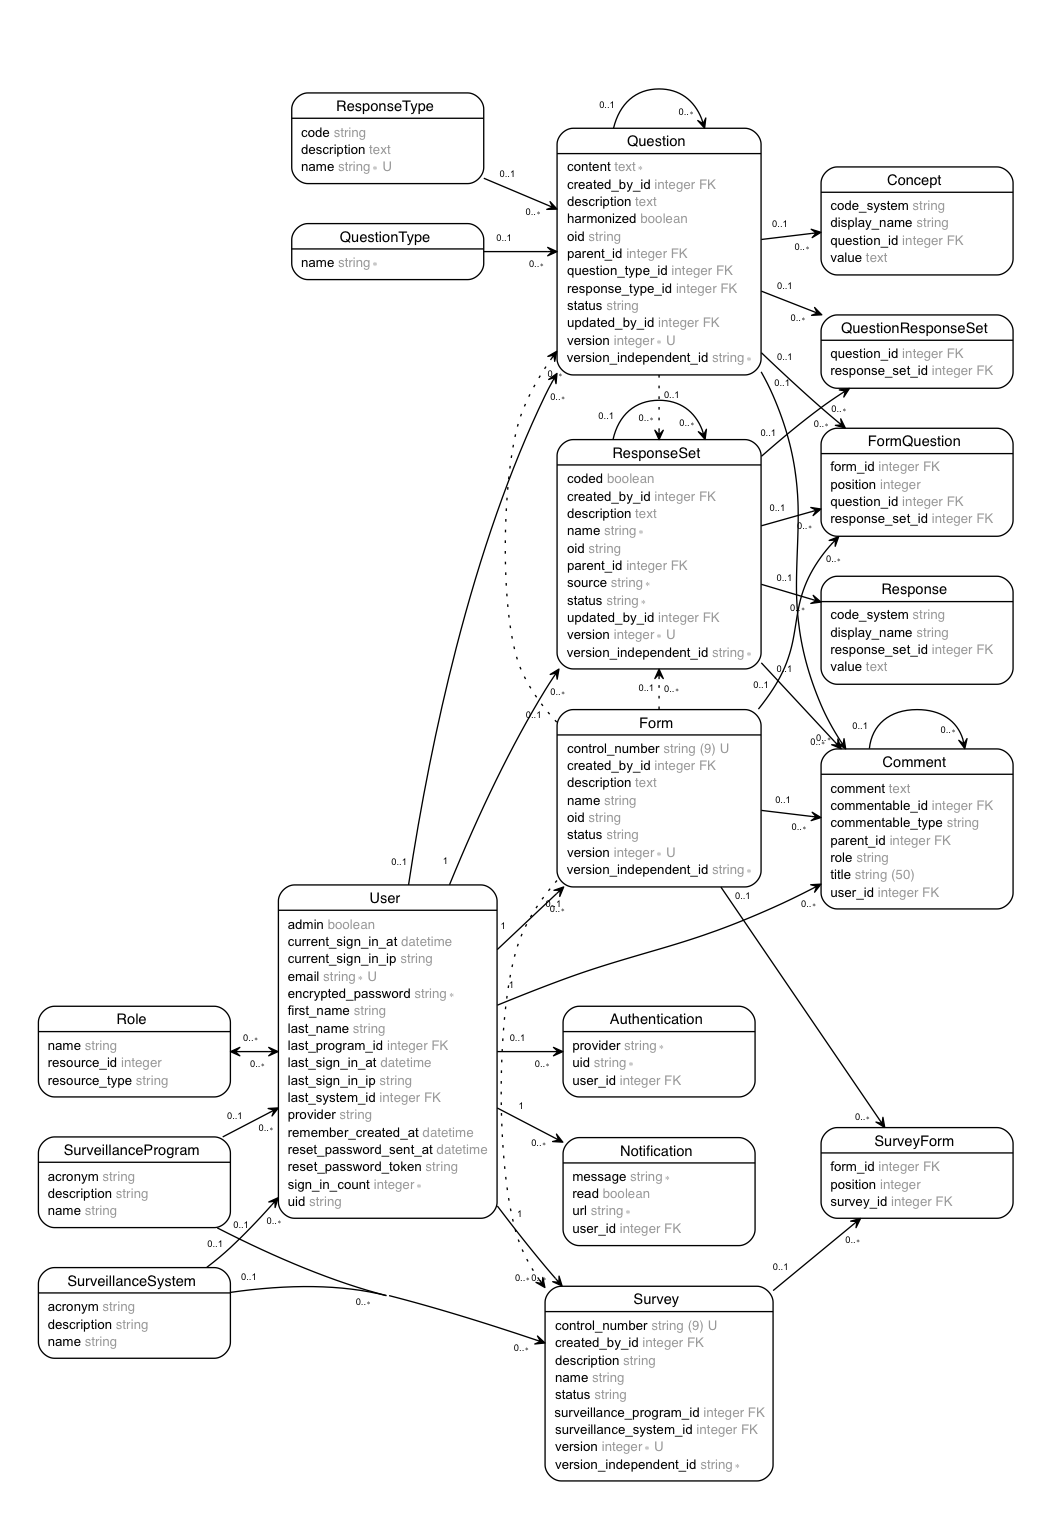
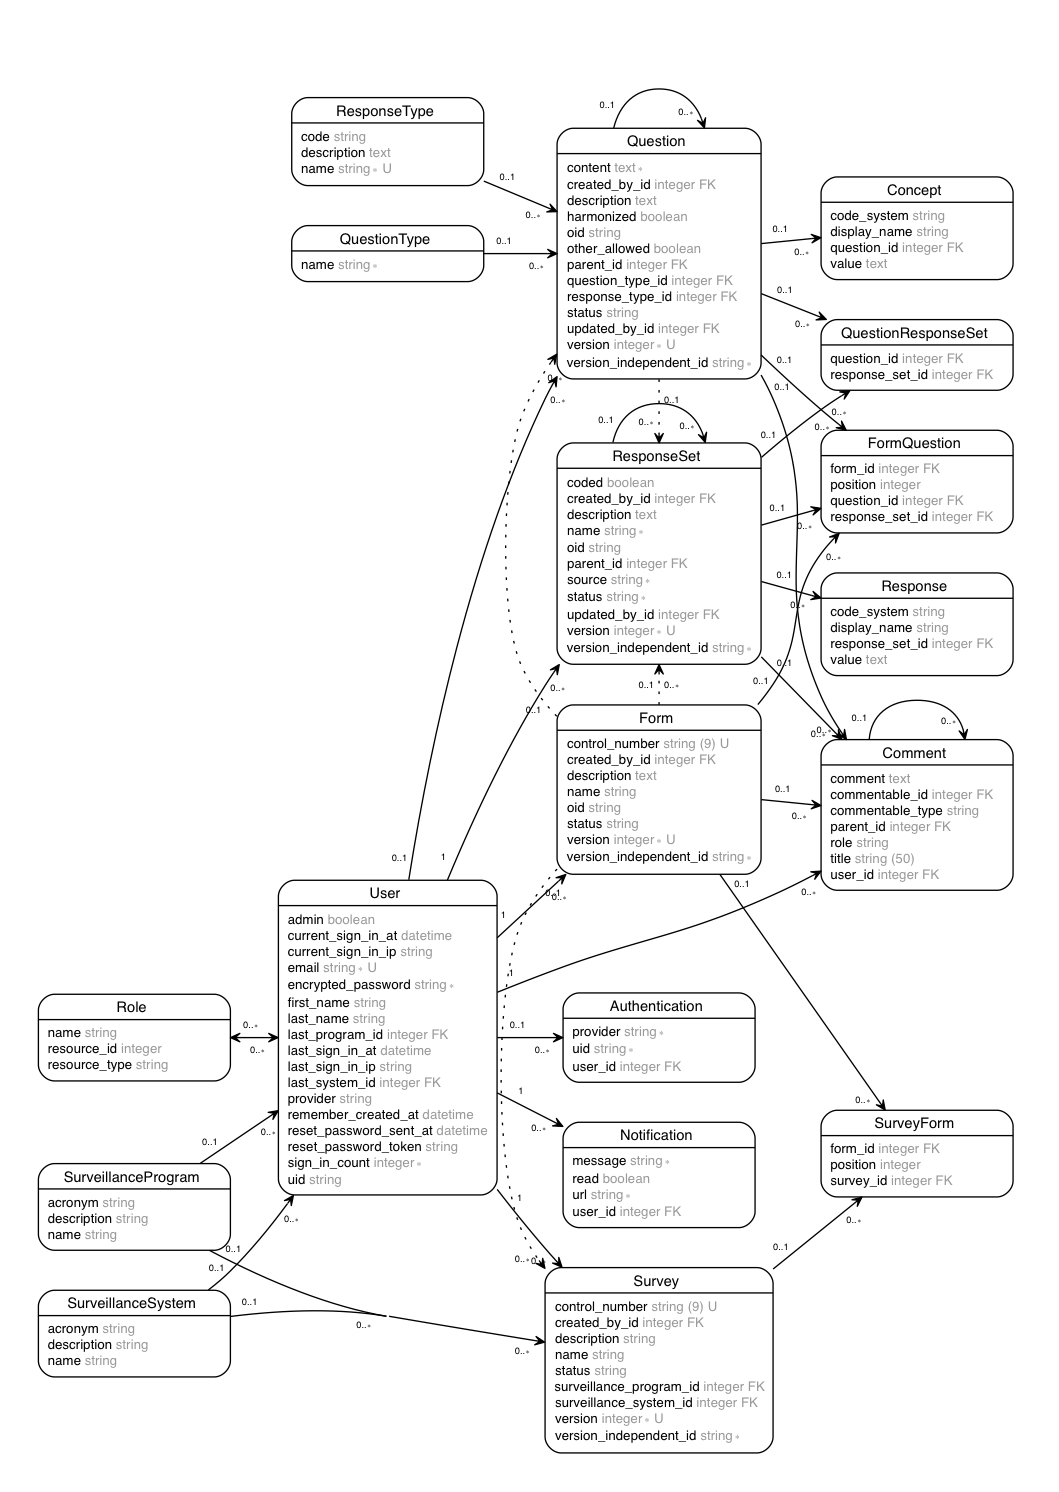
[WIP] Changing response type and allowing other

diff --git a/webpack/components/QuestionForm.js b/webpack/components/QuestionForm.js
@@ -81,6 +81,8 @@ class QuestionForm extends Component{
       reviseState.version += 1;
     }
     reviseState.parentId  = question.parent ? question.parent.id : null;
+    reviseState.responseTypeId = question.responseTypeId;
+    reviseState.otherAllowed = question.otherAllowed;
     return reviseState;
   }
 
@@ -96,7 +98,8 @@ class QuestionForm extends Component{
       conceptsAttributes: [],
       linkedResponseSets: [],
       showWarningModal: false,
-      showResponseSetModal: false
+      showResponseSetModal: false,
+      otherAllowed: false
     };
   }
 
@@ -111,6 +114,8 @@ class QuestionForm extends Component{
     extendState.oid = '';
     extendState.harmonized = false;
     extendState.versionIndependentId = null;
+    extendState.otherAllowed = question.otherAllowed;
+    extendState.responseTypeId = question.responseTypeId;
     return extendState;
   }
 
@@ -168,7 +173,7 @@ class QuestionForm extends Component{
                     <textarea className="input-format" placeholder="Question description" type="text" name="question_description" id="description" defaultValue={state.description} onChange={this.handleChange('description')} />
                   </div>
                   <div className="col-md-4 question-form-group">
-                    <label className="input-label" htmlFor="responseTypeId">Primary Response Type</label>
+                    <label className="input-label" htmlFor="responseTypeId">Response Type</label>
                     <select name="responseTypeId" id="responseTypeId" className="input-format" defaultValue={state.responseTypeId} onChange={this.handleResponseTypeChange()} >
                       {_.values(responseTypes).map((rt) => {
                         return (<option key={rt.id} value={rt.id}>{rt.name} - {rt.description}</option>);
@@ -180,6 +185,7 @@ class QuestionForm extends Component{
                     <input className="form-ckeck-input" type="checkbox" name="harmonized" id="harmonized" checked={state.harmonized} onChange={() => this.toggleHarmonized()} />
                   </div>
                 </div>
+                {this.otherAllowedBox()}
                 <div className="row ">
                   <div className="col-md-12 ">
                     <label className="input-label" htmlFor="concept_id">Tags</label>
@@ -262,6 +268,9 @@ class QuestionForm extends Component{
   handleResponseTypeChange() {
     return (event) => {
       this.setState({responseTypeId: event.target.value});
+      if (this.props.responseTypes[event.target.value].code !== 'choice') {
+        this.setState({otherAllowed: false});
+      }
       this.unsavedState = true;
       if(this.props.handleResponseTypeChange){
         this.props.handleResponseTypeChange(this.props.responseTypes[event.target.value]);
@@ -280,6 +289,26 @@ class QuestionForm extends Component{
 
   toggleHarmonized() {
     this.setState({harmonized: !this.state.harmonized});
+  }
+
+  toggleOtherAllowed() {
+    this.setState({otherAllowed: !this.state.otherAllowed});
+  }
+
+  otherAllowedBox() {
+    if (this.state.responseTypeId && this.props.responseTypes[this.state.responseTypeId].code === 'choice') {
+      return (
+        <div className="row">
+          <div className="col-md-8" />
+          <div className="col-md-4 question-form-group">
+            <label className="input-label" htmlFor="otherAllowed">Other Allowed: </label>
+            <input className="form-ckeck-input" type="checkbox" name="otherAllowed" id="otherAllowed" checked={this.state.otherAllowed} onChange={() => this.toggleOtherAllowed()} />
+          </div>
+        </div>
+      );
+    } else {
+      return '';
+    }
   }
 
   handleResponseSetsChange(newResponseSets){

diff --git a/test/frontend/components/question_form_test.js b/test/frontend/components/question_form_test.js
@@ -1,30 +1,29 @@
-import { expect, renderComponent } from '../test_helper';
+import TestUtils from 'react-addons-test-utils';
+import React from 'react';
+import { Provider } from 'react-redux';
+import { createStore } from 'redux';
+
+import { expect } from '../test_helper';
 import QuestionForm from '../../../webpack/components/QuestionForm';
-import MockRouter from '../mock_router';
+import reducers from '../../../webpack/reducers';
 
 describe('QuestionForm', () => {
-  let component, router, inputNode, props;
-
-  beforeEach(() => {
-    router = new MockRouter();
-    props  = {
+  it('should show the others allowed when choice selected', () => {
+    const props = {
       question: {id: 1, content: "Is this a question?", questionType: "", responseSets: [1], concepts: [{code:"Code 1", display:" Display Name 1", system:"Test system 1"}]},
-      route: {},
-      router: router,
+      action: 'new',
       questionSubmitter: ()=>{},
       questionTypes: {},
       responseSets:  {1: {id: 1, name: "Colors", description: "A list of colors", oid: "2.16.840.1.113883.3.1502.3.1"}},
-      responseTypes: {}
+      responseTypes: {1: {id: 1, name: "Integer", description: "A number", code: "integer"},
+        2: {id: 2, name: "Choice", description: "A choice", code: "choice"}}
     };
-    component = renderComponent(QuestionForm, props);
-    inputNode = component.find("input[id='content']")[0]
+    const c = TestUtils.renderIntoDocument(<Provider store={createStore(reducers, {})}>
+          <QuestionForm {...props} />
+    </Provider>);
+    const qf = TestUtils.findRenderedComponentWithType(c, QuestionForm);
+    expect(qf.otherAllowedBox()).to.equal('');
+    qf.setState({responseTypeId: 2});
+    expect(qf.otherAllowedBox().type).to.equal('div');
   });
-
-  it('should stop user from leaving unsaved data', () => {
-    expect(router.getLeaveHookResponse()).to.equal(true);
-    //Broken by using confirm(), a job for cucumber tests
-    //TestUtils.Simulate.change(inputNode, {target: {value: 'different'}});
-    //expect(router.getLeaveHookResponse()).to.equal(false);
-  });
-
 });

diff --git a/webpack/components/QuestionDetails.js b/webpack/components/QuestionDetails.js
@@ -143,6 +143,10 @@ export default class QuestionDetails extends Component {
               <strong>Response Type: </strong>
               {question.responseType.name}
             </div>}
+            {question.responseType && question.responseType.code === 'choice' && <div className="box-content">
+              <strong>Other Allowed: </strong>
+              {question.otherAllowed.toString()}
+            </div>}
           </div>
             <div className="basic-c-box panel-default">
               <div className="panel-heading">

diff --git a/webpack/prop-types/question_props.js b/webpack/prop-types/question_props.js
@@ -2,7 +2,9 @@ import { PropTypes } from 'react';
 
 const questionProps = PropTypes.shape({
   id: PropTypes.number,
-  content: PropTypes.string
+  content: PropTypes.string,
+  otherAllowed: PropTypes.boolean,
+  harmonized: PropTypes.boolean
 });
 
 const questionsProps = PropTypes.objectOf(questionProps);

diff --git a/app/controllers/questions_controller.rb b/app/controllers/questions_controller.rb
@@ -79,7 +79,6 @@ class QuestionsController < ApplicationController
       update_response_sets(params)
       update_concepts(params)
       @question.updated_by = current_user
-
       if @question.update(question_params)
         render :show, status: :ok, location: @question
       else
@@ -113,7 +112,8 @@ class QuestionsController < ApplicationController
 
   # Never trust parameters from the scary internet, only allow the white list through.
   def question_params
-    params.require(:question).permit(:content, :response_set_id, :response_type_id, :parent_id, :question_type_id, :version_independent_id,
-                                     :description, :status, :harmonized, concepts_attributes: [:id, :value, :display_name, :code_system])
+    params.require(:question).permit(:content, :response_set_id, :response_type_id, :parent_id, :question_type_id,
+                                     :version_independent_id, :description, :status, :harmonized, :other_allowed,
+                                     concepts_attributes: [:id, :value, :display_name, :code_system])
   end
 end

diff --git a/db/schema.rb b/db/schema.rb
@@ -10,7 +10,7 @@
 #
 # It's strongly recommended that you check this file into your version control system.
 
-ActiveRecord::Schema.define(version: 20170327202207) do
+ActiveRecord::Schema.define(version: 20170403180740) do
 
   # These are extensions that must be enabled in order to support this database
   enable_extension "plpgsql"
@@ -110,6 +110,7 @@ ActiveRecord::Schema.define(version: 20170327202207) do
     t.string   "status",                 default: "draft"
     t.boolean  "harmonized"
     t.integer  "parent_id"
+    t.boolean  "other_allowed"
     t.index ["created_by_id"], name: "index_questions_on_created_by_id", using: :btree
     t.index ["question_type_id"], name: "index_questions_on_question_type_id", using: :btree
     t.index ["response_type_id"], name: "index_questions_on_response_type_id", using: :btree

diff --git a/app/models/question.rb b/app/models/question.rb
@@ -15,6 +15,7 @@ class Question < ApplicationRecord
   belongs_to :parent, class_name: 'Question'
 
   validates :content, presence: true
+  validate :other_allowed_on_when_choice
   accepts_nested_attributes_for :concepts, allow_destroy: true
 
   after_commit :index, on: [:create, :update]
@@ -70,5 +71,11 @@ class Question < ApplicationRecord
     SurveillanceSystem.joins(surveys: :survey_forms)
                       .joins('INNER join  form_questions on form_questions.form_id = survey_forms.form_id')
                       .where('form_questions.question_id = ?', id)
+  end
+
+  def other_allowed_on_when_choice
+    if other_allowed && (response_type.blank? || response_type.code != 'choice')
+      errors.add(:other_allowed, "can't be true unless the response type is choice")
+    end
   end
 end

diff --git a/test/models/question_test.rb b/test/models/question_test.rb
@@ -106,4 +106,15 @@ class QuestionTest < ActiveSupport::TestCase
     assert q7.save
     assert_equal q1.oid, q7.oid
   end
+
+  test 'only choice response type allows other' do
+    blank_rs_question = Question.new(content: 'test', other_allowed: true)
+    refute blank_rs_question.valid?
+
+    wrong_rs_question = Question.new(content: 'test', other_allowed: true, response_type: ResponseType.new(code: 'date'))
+    refute wrong_rs_question.valid?
+
+    valid_other_question = Question.new(content: 'test', other_allowed: true, response_type: ResponseType.new(code: 'choice'))
+    assert valid_other_question.valid?
+  end
 end

diff --git a/features/step_definitions/question_steps.rb b/features/step_definitions/question_steps.rb
@@ -27,6 +27,10 @@ Given(/^I have a Response Type with the name "([^"]*)"$/) do |name|
   ResponseType.create!(name: name)
 end
 
+Given(/^I have a Response Type with the name "([^"]*)", description "([^"]*)" and code "([^"]*)"$/) do |name, description, code|
+  ResponseType.create!(name: name, description: description, code: code)
+end
+
 When(/^I go to the list of Questions$/) do
   Elastictest.fake_question_search_results
   visit '/'

diff --git a/db/migrate/20170403180740_add_other_to_question.rb b/db/migrate/20170403180740_add_other_to_question.rb
@@ -1,0 +1,5 @@
+class AddOtherToQuestion < ActiveRecord::Migration[5.0]
+  def change
+    add_column :questions, :other_allowed, :boolean
+  end
+end
